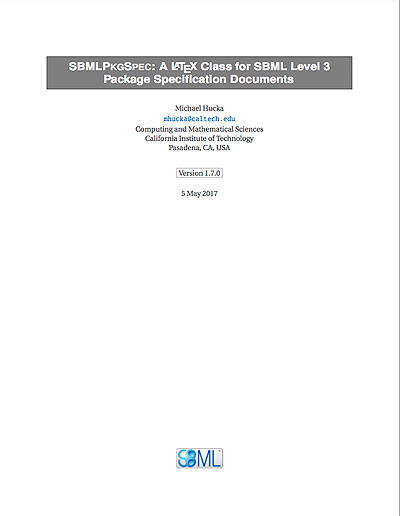
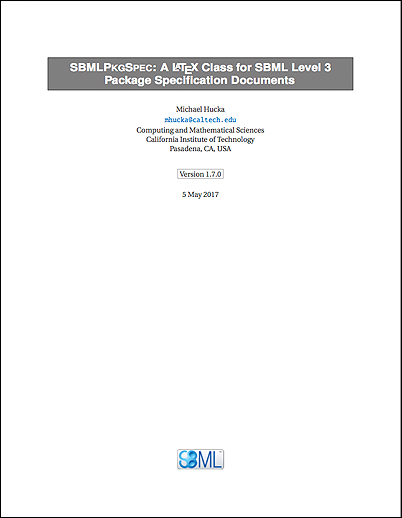
GitHub evidently removes borders from <img>, so need put it in directly.

diff --git a/README.md b/README.md
@@ -27,9 +27,9 @@ _May 2017_: Moved the SBMLPkgClass directory to a [separate GitHub repository](h
 The [SBMLPkgSpec](https://github.com/sbmlteam/sbmlpkgspec) class for LaTeX provides a standard format for SBML Level 3 package specification documents. It provides a uniform look-and-feel to the family of SBML Level 3 documents, and provides guidance to specification authors about the information that should be included in each specification.
 
 <div align="center">
-<img border=1 src="https://github.com/sbmlteam/sbmlpkgspec/raw/master/.graphics/example-1.png">
-<img border=1 src="https://github.com/sbmlteam/sbmlpkgspec/raw/master/.graphics/spacer.png">
-<img border=1 src="https://github.com/sbmlteam/sbmlpkgspec/raw/master/.graphics/example-2.png">
+<img src="https://github.com/sbmlteam/sbmlpkgspec/raw/master/.graphics/example-1.png">
+<img src="https://github.com/sbmlteam/sbmlpkgspec/raw/master/.graphics/spacer.png">
+<img src="https://github.com/sbmlteam/sbmlpkgspec/raw/master/.graphics/example-2.png">
 </div>
 
 
